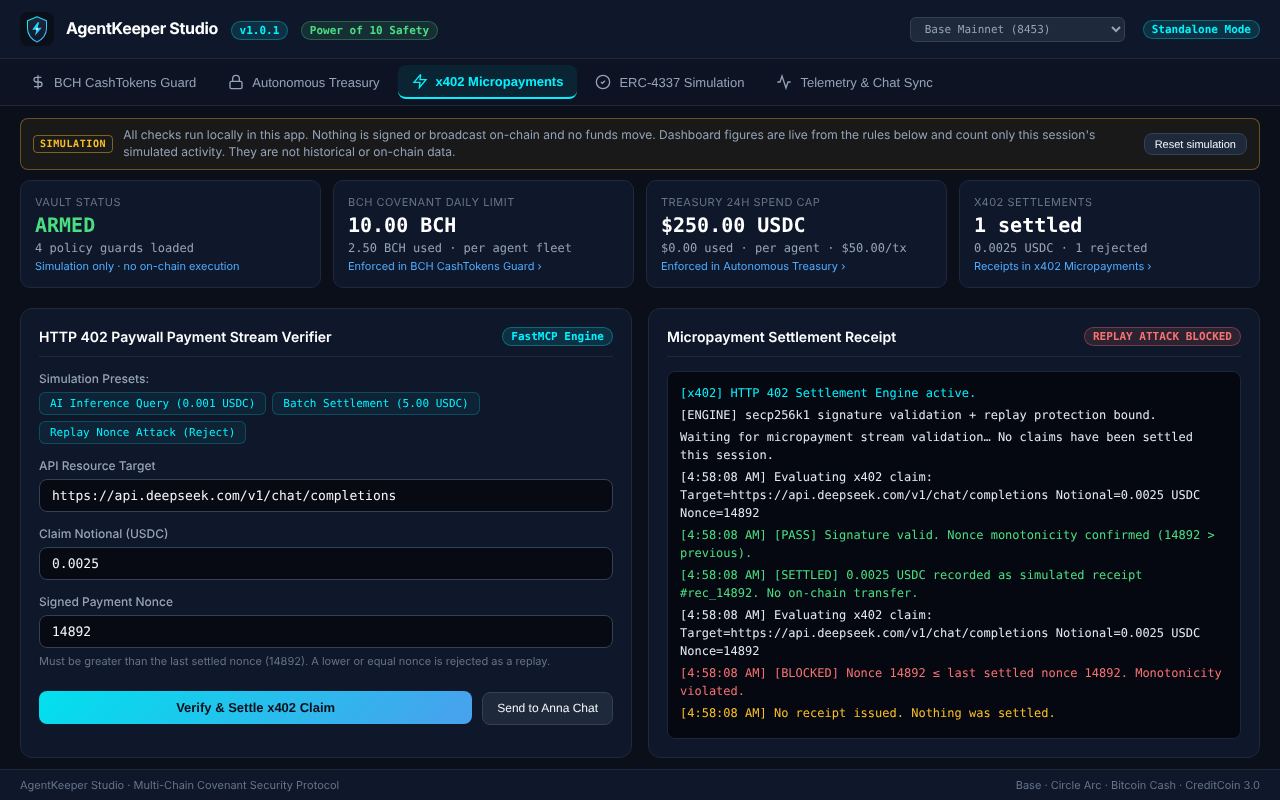
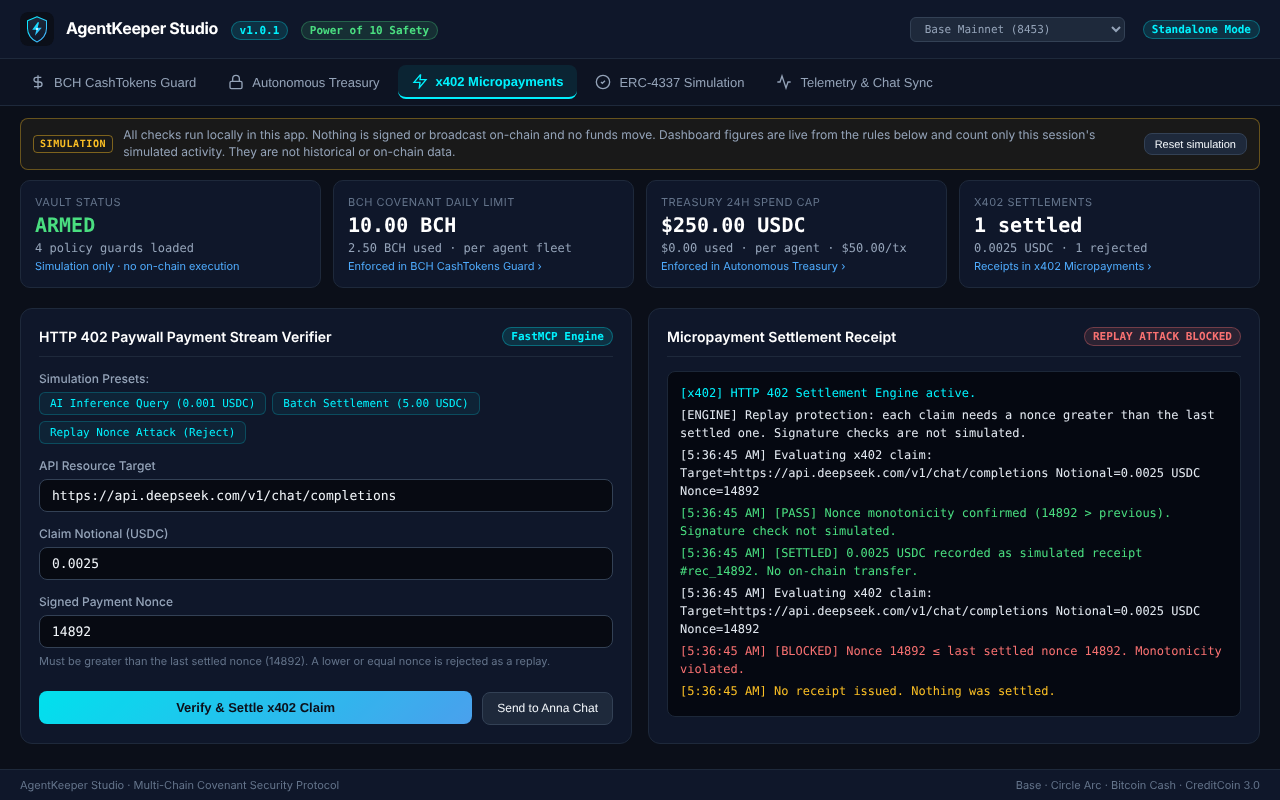
fix: remove stale console placeholders and unbacked claims (review pass)
- Placeholder lines ("No claims have been settled", "No simulated spends
  yet") are removed on the first real entry, so a panel never contradicts
  itself after a settle or a spend.
- Reset simulation restores each tab console, so old receipts no longer
  sit under a dashboard that says "0 settled".
- Drop "Signature valid" / "secp256k1 signature validation": no signature
  is checked; say so instead.
- Clamp the "remaining" amount when the 24h cap is lowered below usage.
- A slow host connect no longer overwrites treasury edits with saved limits.
- Regenerate store screenshots; add 8 regression checks (89 total).

Changed region(s): [[0.5, 0.5, 0.9688, 0.9375]]

diff --git a/bundle/app.js b/bundle/app.js
@@ -44,6 +44,11 @@ function freshSession() {
 }
 let session = freshSession();
 let anna = null;
+// Set once the user edits the treasury form, so a late storage load never
+// overwrites their edits.
+let treasuryFormTouched = false;
+const TAB_CONSOLES = ["bchConsole", "treasuryConsole", "x402Console", "userOpConsole"];
+const initialConsoleHtml = {};
 
 // ---------- Helpers ----------
 const $ = (id) => document.getElementById(id);
@@ -70,9 +75,11 @@ function setBadge(id, text, tone) {
 }
 
 // Terminal Logger Helper
-function logLine(elementId, text, type = "") {
+function logLine(elementId, text, type = "", { keepPlaceholder = false } = {}) {
   const el = $(elementId);
   if (!el) return;
+  // The first real entry replaces any "nothing happened yet" placeholder line.
+  if (!keepPlaceholder) el.querySelectorAll(".terminal-placeholder").forEach((p) => p.remove());
   const line = document.createElement("div");
   line.className = `terminal-line ${type}`.trim();
   line.textContent = `[${new Date().toLocaleTimeString()}] ${text}`;
@@ -310,6 +317,7 @@ function applyTreasuryForm() {
 function initTreasury() {
   ["treasuryAgentInput", "treasuryTxCapInput", "treasuryDailyCapInput", "treasuryWhitelistInput"].forEach((id) => {
     $(id)?.addEventListener("input", () => {
+      treasuryFormTouched = true;
       const errors = applyTreasuryForm();
       if (errors.length) setBadge("treasuryStatusBadge", "POLICY INVALID", "amber");
       else if ($("treasuryStatusBadge").textContent === "POLICY INVALID") setBadge("treasuryStatusBadge", "READY", "muted");
@@ -348,7 +356,7 @@ function initTreasury() {
     if (micro > txCapMicro) return reject(`${fmtUsd(amount)} exceeds the per-transaction cap of ${fmtUsd(p.txCapUsdc)}.`);
     if (usedMicro + micro > dailyCapMicro)
       return reject(
-        `${fmtUsd(amount)} would exceed the rolling 24h cap: ${fmtUsd(usedMicro / USDC_MICRO)} of ${fmtUsd(p.dailyCapUsdc)} already used, ${fmtUsd((dailyCapMicro - usedMicro) / USDC_MICRO)} remaining.`
+        `${fmtUsd(amount)} would exceed the rolling 24h cap: ${fmtUsd(usedMicro / USDC_MICRO)} of ${fmtUsd(p.dailyCapUsdc)} already used, ${fmtUsd(Math.max(0, dailyCapMicro - usedMicro) / USDC_MICRO)} remaining.`
       );
 
     session.treasury.ledger.push({ at: Date.now(), micro, recipient });
@@ -431,10 +439,14 @@ async function loadSavedTreasury() {
   }
   const policy = normalizeSavedTreasury(raw);
   if (!policy) return;
+  if (treasuryFormTouched) {
+    logLine("treasuryConsole", `Saved treasury limits found in ${source} but not applied, because the form was already edited.`, "info", { keepPlaceholder: true });
+    return;
+  }
   session.treasury.policy = policy;
   writeTreasuryForm(policy);
   renderDashboard();
-  logLine("treasuryConsole", `Loaded saved treasury limits from ${source}.`, "info");
+  logLine("treasuryConsole", `Loaded saved treasury limits from ${source}.`, "info", { keepPlaceholder: true });
 }
 
 // ---------- x402 Micropayments ----------
@@ -468,7 +480,7 @@ function initX402Validation() {
     x.receipts.push(receipt);
     x.last = { status: "SETTLED", receipt, resource, notional, nonce };
     setBadge("x402StatusBadge", "CLAIM SETTLED", "green");
-    logLine("x402Console", `[PASS] Signature valid. Nonce monotonicity confirmed (${nonce} > previous).`, "pass");
+    logLine("x402Console", `[PASS] Nonce monotonicity confirmed (${nonce} > previous). Signature check not simulated.`, "pass");
     logLine(
       "x402Console",
       `[SETTLED] ${fmtNum(notional, 2, 6)} USDC recorded as simulated receipt #${receipt.id}. No on-chain transfer.`,
@@ -587,6 +599,9 @@ function resetSimulation() {
   const keepPolicy = session.treasury.policy;
   session = freshSession();
   session.treasury.policy = keepPolicy;
+  TAB_CONSOLES.forEach((id) => {
+    if ($(id) && id in initialConsoleHtml) $(id).innerHTML = initialConsoleHtml[id];
+  });
   setBadge("bchStatusBadge", "READY", "muted");
   setBadge("treasuryStatusBadge", "READY", "muted");
   setBadge("x402StatusBadge", "IDLE", "muted");
@@ -601,6 +616,9 @@ async function boot() {
   const versionBadge = $("appVersionBadge");
   if (versionBadge) versionBadge.textContent = `v${APP_VERSION}`;
 
+  TAB_CONSOLES.forEach((id) => {
+    if ($(id)) initialConsoleHtml[id] = $(id).innerHTML;
+  });
   initTabs();
   initPresets();
   initBchValidation();

diff --git a/docs/app.js b/docs/app.js
@@ -44,6 +44,11 @@ function freshSession() {
 }
 let session = freshSession();
 let anna = null;
+// Set once the user edits the treasury form, so a late storage load never
+// overwrites their edits.
+let treasuryFormTouched = false;
+const TAB_CONSOLES = ["bchConsole", "treasuryConsole", "x402Console", "userOpConsole"];
+const initialConsoleHtml = {};
 
 // ---------- Helpers ----------
 const $ = (id) => document.getElementById(id);
@@ -70,9 +75,11 @@ function setBadge(id, text, tone) {
 }
 
 // Terminal Logger Helper
-function logLine(elementId, text, type = "") {
+function logLine(elementId, text, type = "", { keepPlaceholder = false } = {}) {
   const el = $(elementId);
   if (!el) return;
+  // The first real entry replaces any "nothing happened yet" placeholder line.
+  if (!keepPlaceholder) el.querySelectorAll(".terminal-placeholder").forEach((p) => p.remove());
   const line = document.createElement("div");
   line.className = `terminal-line ${type}`.trim();
   line.textContent = `[${new Date().toLocaleTimeString()}] ${text}`;
@@ -310,6 +317,7 @@ function applyTreasuryForm() {
 function initTreasury() {
   ["treasuryAgentInput", "treasuryTxCapInput", "treasuryDailyCapInput", "treasuryWhitelistInput"].forEach((id) => {
     $(id)?.addEventListener("input", () => {
+      treasuryFormTouched = true;
       const errors = applyTreasuryForm();
       if (errors.length) setBadge("treasuryStatusBadge", "POLICY INVALID", "amber");
       else if ($("treasuryStatusBadge").textContent === "POLICY INVALID") setBadge("treasuryStatusBadge", "READY", "muted");
@@ -348,7 +356,7 @@ function initTreasury() {
     if (micro > txCapMicro) return reject(`${fmtUsd(amount)} exceeds the per-transaction cap of ${fmtUsd(p.txCapUsdc)}.`);
     if (usedMicro + micro > dailyCapMicro)
       return reject(
-        `${fmtUsd(amount)} would exceed the rolling 24h cap: ${fmtUsd(usedMicro / USDC_MICRO)} of ${fmtUsd(p.dailyCapUsdc)} already used, ${fmtUsd((dailyCapMicro - usedMicro) / USDC_MICRO)} remaining.`
+        `${fmtUsd(amount)} would exceed the rolling 24h cap: ${fmtUsd(usedMicro / USDC_MICRO)} of ${fmtUsd(p.dailyCapUsdc)} already used, ${fmtUsd(Math.max(0, dailyCapMicro - usedMicro) / USDC_MICRO)} remaining.`
       );
 
     session.treasury.ledger.push({ at: Date.now(), micro, recipient });
@@ -431,10 +439,14 @@ async function loadSavedTreasury() {
   }
   const policy = normalizeSavedTreasury(raw);
   if (!policy) return;
+  if (treasuryFormTouched) {
+    logLine("treasuryConsole", `Saved treasury limits found in ${source} but not applied, because the form was already edited.`, "info", { keepPlaceholder: true });
+    return;
+  }
   session.treasury.policy = policy;
   writeTreasuryForm(policy);
   renderDashboard();
-  logLine("treasuryConsole", `Loaded saved treasury limits from ${source}.`, "info");
+  logLine("treasuryConsole", `Loaded saved treasury limits from ${source}.`, "info", { keepPlaceholder: true });
 }
 
 // ---------- x402 Micropayments ----------
@@ -468,7 +480,7 @@ function initX402Validation() {
     x.receipts.push(receipt);
     x.last = { status: "SETTLED", receipt, resource, notional, nonce };
     setBadge("x402StatusBadge", "CLAIM SETTLED", "green");
-    logLine("x402Console", `[PASS] Signature valid. Nonce monotonicity confirmed (${nonce} > previous).`, "pass");
+    logLine("x402Console", `[PASS] Nonce monotonicity confirmed (${nonce} > previous). Signature check not simulated.`, "pass");
     logLine(
       "x402Console",
       `[SETTLED] ${fmtNum(notional, 2, 6)} USDC recorded as simulated receipt #${receipt.id}. No on-chain transfer.`,
@@ -587,6 +599,9 @@ function resetSimulation() {
   const keepPolicy = session.treasury.policy;
   session = freshSession();
   session.treasury.policy = keepPolicy;
+  TAB_CONSOLES.forEach((id) => {
+    if ($(id) && id in initialConsoleHtml) $(id).innerHTML = initialConsoleHtml[id];
+  });
   setBadge("bchStatusBadge", "READY", "muted");
   setBadge("treasuryStatusBadge", "READY", "muted");
   setBadge("x402StatusBadge", "IDLE", "muted");
@@ -601,6 +616,9 @@ async function boot() {
   const versionBadge = $("appVersionBadge");
   if (versionBadge) versionBadge.textContent = `v${APP_VERSION}`;
 
+  TAB_CONSOLES.forEach((id) => {
+    if ($(id)) initialConsoleHtml[id] = $(id).innerHTML;
+  });
   initTabs();
   initPresets();
   initBchValidation();

diff --git a/bundle/index.html b/bundle/index.html
@@ -141,7 +141,7 @@
               <div class="terminal-line info">[INIT] CashTokens Guard loaded with CHIP-2022-02 script prefix decoder.</div>
               <div class="terminal-line">[POLICY] Daily spending bound: <span data-bind="bchLimit">10.00</span> BCH per agent fleet (rolling 24h). This is the only BCH limit.</div>
               <div class="terminal-line">[POLICY] NFT capability: IMMUTABLE state commitment verification active.</div>
-              <div class="terminal-line">System ready for evaluation. Simulation only: no BCH transaction is broadcast.</div>
+              <div class="terminal-line terminal-placeholder">System ready for evaluation. Simulation only: no BCH transaction is broadcast.</div>
             </div>
           </div>
         </div>
@@ -197,7 +197,7 @@
               <div class="terminal-line info">[TREASURY] AgentKeeper programmable multi-chain vault initialized.</div>
               <div class="terminal-line">[POLICY] Zero-Contact Invariant: Unlisted recipients strictly rejected.</div>
               <div class="terminal-line">[POLICY] Per-tx cap $<span data-bind="treasuryTxCap">50.00</span> · rolling 24h cap $<span data-bind="treasuryDailyCap">250.00</span> USDC per agent. These are separate from the BCH covenant limit.</div>
-              <div class="terminal-line">[STATE] No simulated spends yet this session. "Test Spend" runs a dry run and records it in the session ledger only.</div>
+              <div class="terminal-line terminal-placeholder">[STATE] No simulated spends yet this session. "Test Spend" runs a dry run and records it in the session ledger only.</div>
             </div>
           </div>
         </div>
@@ -245,8 +245,8 @@
             </div>
             <div id="x402Console" class="terminal-box">
               <div class="terminal-line info">[x402] HTTP 402 Settlement Engine active.</div>
-              <div class="terminal-line">[ENGINE] secp256k1 signature validation + replay protection bound.</div>
-              <div class="terminal-line">Waiting for micropayment stream validation… No claims have been settled this session.</div>
+              <div class="terminal-line">[ENGINE] Replay protection: each claim needs a nonce greater than the last settled one. Signature checks are not simulated.</div>
+              <div class="terminal-line terminal-placeholder">Waiting for micropayment stream validation… No claims have been settled this session.</div>
             </div>
           </div>
         </div>
@@ -287,7 +287,7 @@
             <div id="userOpConsole" class="terminal-box">
               <div class="terminal-line info">[SIMULATOR] Pre-flight EVM call simulation armed.</div>
               <div class="terminal-line">[CHECK] Verification gas bounded at <span data-bind="gasBound">1,000,000</span> (Power of 10 Holzmann Invariants).</div>
-              <div class="terminal-line">Ready for pre-flight simulation. Nothing is sent to a bundler.</div>
+              <div class="terminal-line terminal-placeholder">Ready for pre-flight simulation. Nothing is sent to a bundler.</div>
             </div>
           </div>
         </div>

diff --git a/docs/index.html b/docs/index.html
@@ -141,7 +141,7 @@
               <div class="terminal-line info">[INIT] CashTokens Guard loaded with CHIP-2022-02 script prefix decoder.</div>
               <div class="terminal-line">[POLICY] Daily spending bound: <span data-bind="bchLimit">10.00</span> BCH per agent fleet (rolling 24h). This is the only BCH limit.</div>
               <div class="terminal-line">[POLICY] NFT capability: IMMUTABLE state commitment verification active.</div>
-              <div class="terminal-line">System ready for evaluation. Simulation only: no BCH transaction is broadcast.</div>
+              <div class="terminal-line terminal-placeholder">System ready for evaluation. Simulation only: no BCH transaction is broadcast.</div>
             </div>
           </div>
         </div>
@@ -197,7 +197,7 @@
               <div class="terminal-line info">[TREASURY] AgentKeeper programmable multi-chain vault initialized.</div>
               <div class="terminal-line">[POLICY] Zero-Contact Invariant: Unlisted recipients strictly rejected.</div>
               <div class="terminal-line">[POLICY] Per-tx cap $<span data-bind="treasuryTxCap">50.00</span> · rolling 24h cap $<span data-bind="treasuryDailyCap">250.00</span> USDC per agent. These are separate from the BCH covenant limit.</div>
-              <div class="terminal-line">[STATE] No simulated spends yet this session. "Test Spend" runs a dry run and records it in the session ledger only.</div>
+              <div class="terminal-line terminal-placeholder">[STATE] No simulated spends yet this session. "Test Spend" runs a dry run and records it in the session ledger only.</div>
             </div>
           </div>
         </div>
@@ -245,8 +245,8 @@
             </div>
             <div id="x402Console" class="terminal-box">
               <div class="terminal-line info">[x402] HTTP 402 Settlement Engine active.</div>
-              <div class="terminal-line">[ENGINE] secp256k1 signature validation + replay protection bound.</div>
-              <div class="terminal-line">Waiting for micropayment stream validation… No claims have been settled this session.</div>
+              <div class="terminal-line">[ENGINE] Replay protection: each claim needs a nonce greater than the last settled one. Signature checks are not simulated.</div>
+              <div class="terminal-line terminal-placeholder">Waiting for micropayment stream validation… No claims have been settled this session.</div>
             </div>
           </div>
         </div>
@@ -287,7 +287,7 @@
             <div id="userOpConsole" class="terminal-box">
               <div class="terminal-line info">[SIMULATOR] Pre-flight EVM call simulation armed.</div>
               <div class="terminal-line">[CHECK] Verification gas bounded at <span data-bind="gasBound">1,000,000</span> (Power of 10 Holzmann Invariants).</div>
-              <div class="terminal-line">Ready for pre-flight simulation. Nothing is sent to a bundler.</div>
+              <div class="terminal-line terminal-placeholder">Ready for pre-flight simulation. Nothing is sent to a bundler.</div>
             </div>
           </div>
         </div>
